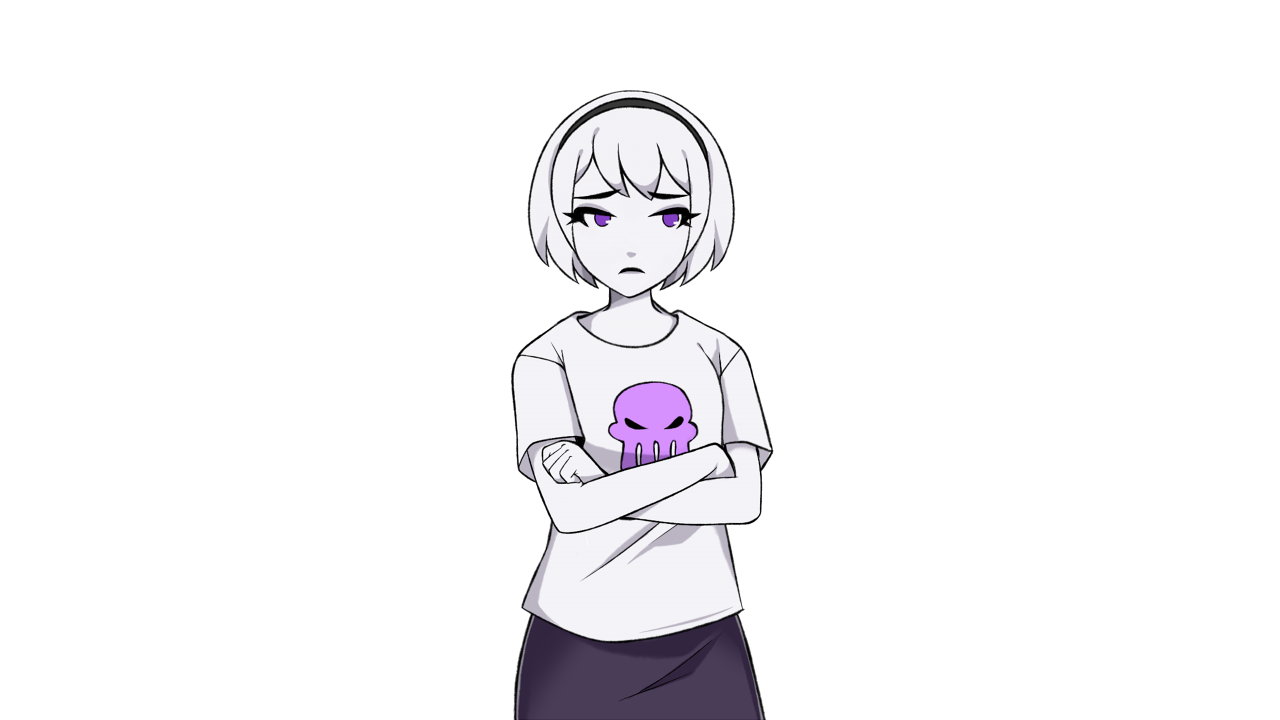
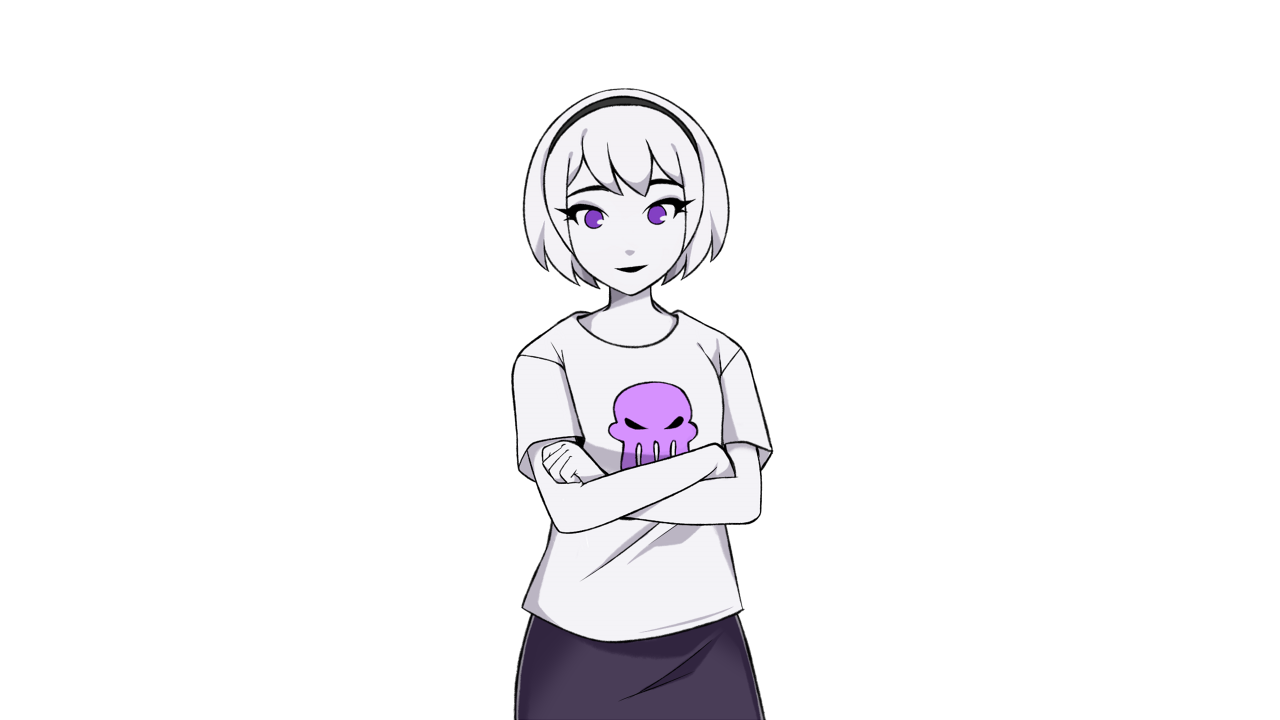
sistema de árvore

Changed region(s): [[0.4062, 0.1222, 0.5938, 0.4278]]

diff --git a/static/js/ArvoreInventory.js b/static/js/ArvoreInventory.js
@@ -1,0 +1,172 @@
+class Node {
+    constructor(html, name, weight) {
+        this.html = html;
+        this.name = name;
+        this.weight = parseInt(weight);
+        this.left = null;
+        this.right = null;
+    }
+}
+
+class ArvoreInventory {
+    constructor() {
+        this.root = null;
+    }
+
+    insert(itemElement, itemName) {
+        const weight = parseInt(itemElement.dataset.weight);
+        const newNode = new Node(itemElement, itemName, weight);
+
+        if (this.root === null) {
+            this.root = newNode;
+        } else {
+            this.insertNode(this.root, newNode);
+        }
+        this.render();
+    }
+
+    insertNode(node, newNode) {
+        if (newNode.weight < node.weight) {
+            if (node.left === null) node.left = newNode;
+            else this.insertNode(node.left, newNode);
+        } else {
+            if (node.right === null) node.right = newNode;
+            else this.insertNode(node.right, newNode);
+        }
+    }
+
+    // Busca o nó pelo nome para descobrir qual peso precisa deletar
+    findNodeByName(node, name) {
+        if (node === null) return null;
+        if (node.name.toLowerCase() === name.toLowerCase()) return node;
+        
+        let leftSearch = this.findNodeByName(node.left, name);
+        if (leftSearch) return leftSearch;
+        return this.findNodeByName(node.right, name);
+    }
+
+    remove() {
+        if (this.root === null) {
+            alert("A Árvore está vazia!");
+            return null;
+        }
+
+        const nameToRemove = prompt("Digite o NOME do item que deseja remover:");
+        if (!nameToRemove) return null;
+
+        const targetNode = this.findNodeByName(this.root, nameToRemove.trim());
+        if (!targetNode) {
+            alert("Item não encontrado na árvore!");
+            return null;
+        }
+
+        const removedElement = { name: targetNode.name, html: targetNode.html };
+        
+        // Aciona a reorganização da árvore baseada no peso do item
+        this.root = this.removeNode(this.root, targetNode.weight);
+        this.render();
+        
+        return removedElement;
+    }
+
+    removeNode(node, weight) {
+        if (node === null) return null;
+
+        if (weight < node.weight) {
+            node.left = this.removeNode(node.left, weight);
+            return node;
+        } else if (weight > node.weight) {
+            node.right = this.removeNode(node.right, weight);
+            return node;
+        } else {
+            
+            // Caso 1: Folha (Sem filhos)
+            if (node.left === null && node.right === null) return null;
+            
+            // Caso 2: Apenas um filho
+            if (node.left === null) return node.right;
+            if (node.right === null) return node.left;
+            
+            // Caso 3: Dois filhos (Busca o menor valor da subárvore direita)
+            let tempNode = this.findMinNode(node.right);
+            node.weight = tempNode.weight;
+            node.name = tempNode.name;
+            node.html = tempNode.html;
+            node.right = this.removeNode(node.right, tempNode.weight);
+            return node;
+        }
+    }
+
+    findMinNode(node) {
+        if (node.left === null) return node;
+        return this.findMinNode(node.left);
+    }
+
+    clear() {
+        const items = [];
+        this.collectAll(this.root, items);
+        this.root = null;
+        this.render();
+        return items; 
+    }
+
+    collectAll(node, arr) {
+        if (node !== null) {
+            this.collectAll(node.left, arr);
+            arr.push({ name: node.name, html: node.html });
+            this.collectAll(node.right, arr);
+        }
+    }
+
+    render() {
+        const container = document.getElementById('inventory-container');
+        container.innerHTML = '';
+        if (this.root !== null) {
+            const treeDOM = this.buildTreeDOM(this.root);
+            container.appendChild(treeDOM);
+        }
+    }
+
+    // FUNÇÃO PARA DESENHAR A ÁRVORE
+    buildTreeDOM(node) {
+        if (node === null) return null;
+
+        const wrapper = document.createElement('div');
+        wrapper.className = 'tree-node-wrapper';
+
+        const nodeContent = document.createElement('div');
+        nodeContent.className = 'tree-node-content';
+        
+        const badge = document.createElement('span');
+        badge.className = 'tree-weight-badge';
+        badge.innerText = `Peso: ${node.weight}`;
+        
+        nodeContent.appendChild(node.html);
+        nodeContent.appendChild(badge);
+
+        if (node.left !== null || node.right !== null) {
+            const childrenContainer = document.createElement('div');
+            childrenContainer.className = 'tree-children';
+
+            const leftChild = this.buildTreeDOM(node.left);
+            const rightChild = this.buildTreeDOM(node.right);
+
+            const leftWrapper = document.createElement('div');
+            leftWrapper.className = 'tree-branch left-branch';
+            if (leftChild) leftWrapper.appendChild(leftChild);
+            
+            const rightWrapper = document.createElement('div');
+            rightWrapper.className = 'tree-branch right-branch';
+            if (rightChild) rightWrapper.appendChild(rightChild);
+
+            childrenContainer.appendChild(leftWrapper);
+            childrenContainer.appendChild(rightWrapper);
+            
+            wrapper.appendChild(childrenContainer); 
+        }
+
+        wrapper.appendChild(nodeContent);
+
+        return wrapper;
+    }
+}

diff --git a/static/css/style.css b/static/css/style.css
@@ -322,3 +322,72 @@ h1 {
     padding: 2px 6px; font-size: 0.7rem;
     border-radius: 3px; margin-top: 2px;
 }
+
+#inventory-container[data-type="Árvore"] {
+    flex-direction: column;
+    align-items: center;
+    overflow-x: auto; 
+    padding-top: 10px;
+    width: 100%;
+}
+
+.tree-node-wrapper {
+    display: flex;
+    flex-direction: column;
+    align-items: center;
+    margin: 0 15px;
+}
+
+.tree-node-content {
+    display: flex;
+    flex-direction: column;
+    align-items: center;
+    position: relative;
+    z-index: 2;
+}
+
+.tree-children {
+    display: flex;
+    justify-content: center;
+    position: relative;
+    padding-bottom: 15px; 
+    width: 100%;
+}
+
+.tree-children::before {
+    content: '';
+    position: absolute;
+    bottom: 0; 
+    left: 25%;
+    width: 50%;
+    height: 2px;
+    background-color: #000;
+}
+
+.tree-branch {
+    display: flex;
+    flex-direction: column;
+    justify-content: flex-end; 
+    align-items: center;
+    position: relative;
+    flex: 1;
+    padding-bottom: 15px; 
+}
+
+.tree-branch::before {
+    content: '';
+    position: absolute;
+    bottom: 0;
+    width: 2px;
+    height: 15px;
+    background-color: #000;
+}
+
+.tree-weight-badge {
+    background: #000;
+    color: #fff;
+    padding: 2px 6px;
+    font-size: 0.7rem;
+    border-radius: 3px;
+    margin-top: 5px;
+}

diff --git a/templates/game.html b/templates/game.html
@@ -77,13 +77,15 @@
         }
     </script> 
     
-        {% if inv_type == 'Pilha' %}
-            <script src="{{ url_for('static', filename='js/PilhaInventory.js') }}"></script>
-        {% elif inv_type == 'Fila' %}
-            <script src="{{ url_for('static', filename='js/FilaInventory.js') }}"></script>
-        {% elif inv_type == 'Tabela Hash' %}
-            <script src="{{ url_for('static', filename='js/TabelaHashInventory.js') }}"></script>
-        {% endif %}
+    {% if inv_type == 'Pilha' %}
+        <script src="{{ url_for('static', filename='js/PilhaInventory.js') }}"></script>
+    {% elif inv_type == 'Fila' %}
+        <script src="{{ url_for('static', filename='js/FilaInventory.js') }}"></script>
+    {% elif inv_type == 'Tabela Hash' %}
+        <script src="{{ url_for('static', filename='js/TabelaHashInventory.js') }}"></script>
+    {% elif inv_type == 'Árvore' %}
+        <script src="{{ url_for('static', filename='js/ArvoreInventory.js') }}"></script>
+    {% endif %}
 
     <script src="{{ url_for('static', filename='js/ui_controller.js') }}"></script>
 

diff --git a/static/js/ui_controller.js b/static/js/ui_controller.js
@@ -15,6 +15,9 @@ document.addEventListener('DOMContentLoaded', () => {
     else if (inventoryType === 'Tabela Hash' && typeof TabelaHashInventory !== 'undefined') {
         inventorySystem = new TabelaHashInventory();
     }
+    else if (inventoryType === 'Árvore' && typeof ArvoreInventory !== 'undefined') {
+        inventorySystem = new ArvoreInventory();
+    }
 
     let selectedSlot = null; // Guarda o item clicado enquanto o modal está aberto
 
@@ -88,9 +91,6 @@ document.addEventListener('DOMContentLoaded', () => {
         });
     }
     
-    // ==========================================
-    // CONTROLES DO MODAL (TABELA HASH)
-    // ==========================================
     const btnHashAdd = document.getElementById('btn-hash-add');
     if (btnHashAdd) {
         btnHashAdd.addEventListener('click', () => {
